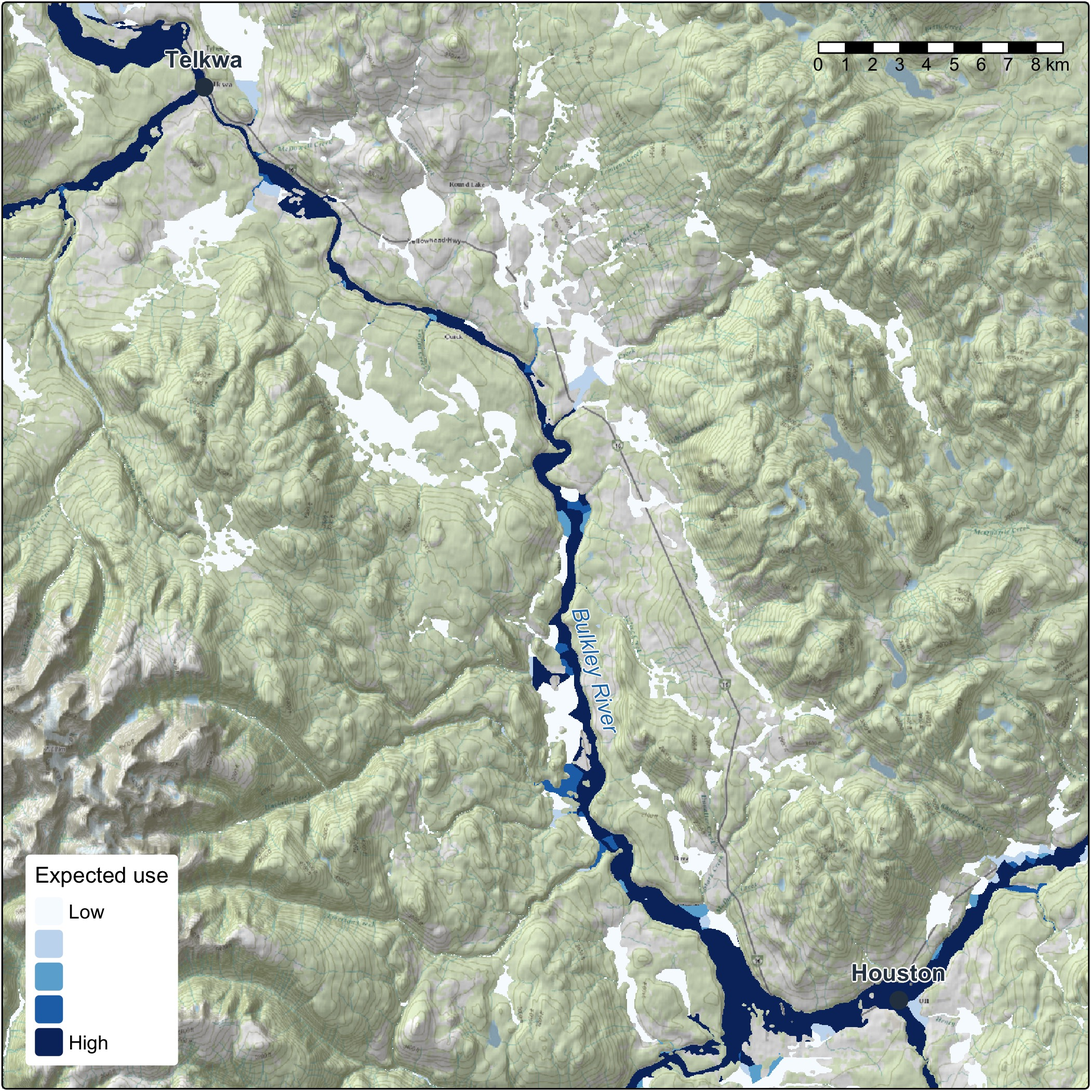
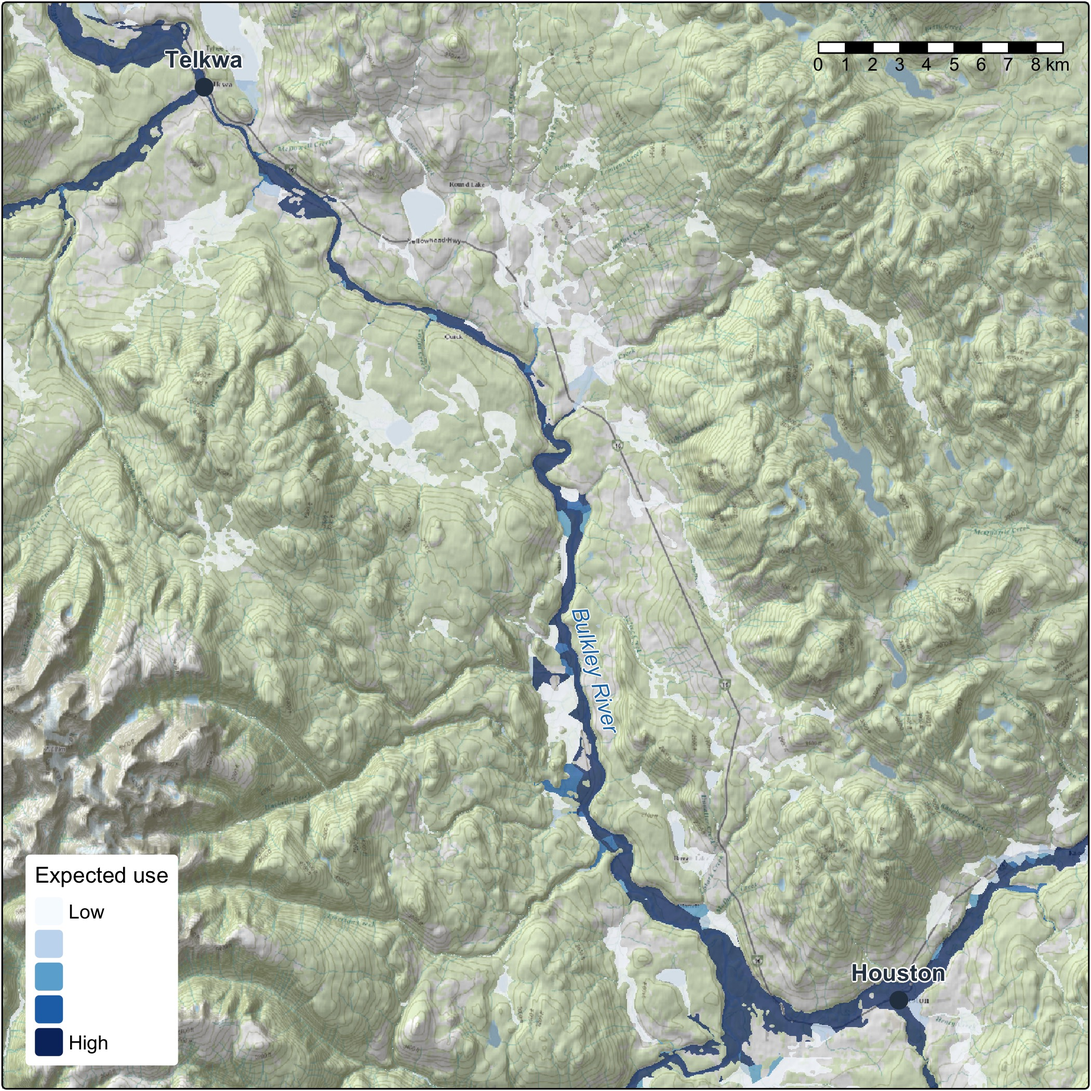
Let the ground show through the expected-use map
see() added no alpha to an unnamed palette, so that map drew opaque. Only its
image changes on a redraw.

diff --git a/planning/active/review-round1.md b/planning/active/review-round1.md
@@ -1,0 +1,26 @@
+## Checklist read
+
+Sections were read up to about 1,800 characters each (the Mechanisms prose in full).
+
+- `code-check.md`: every H3 under `## Mechanisms` (14), skipping table rows, plus Documentation Staleness, A link to a repo-hosted artifact must be *tracked*, Percent-encode a URL at construction, Test the cold/create path of idempotent code, Credentials. 18 of 37 H3s not read.
+- `code-check-r.md`: `paste()` with a zero-length argument; A database driver's value; `$` on a list partial-matches; Postgres row order; `sprintf("%g", x)`; Regenerated binaries churn git; `c(name = x)`; `[[` on a named ATOMIC vector; `ifelse()` with an all-NA test; Rscript reads a script as it runs; `match()` treats NA; A library call that dispatches on a global option. 103 of 115 not read.
+- `code-check-spatial.md`: terra integer rasters; A name is not a key; bcdata `filter()`; The BC WFS caps; FWA main flow; sf `st_intersection()`; sf reproject the polygon; `st_union()` fails; A GDAL failure partway through `st_read()`; sf name validation; Writing KML; GeoJSON in a projected CRS; `terra::plot()` and `plotRGB()`; A Freshwater Atlas main stem; bcdata all-missing column; A nodata value written to PNG; terra keeps a result in memory; `atan2(0, 0)`; `terra::cells()`. 75 of 94 not read.
+- `code-check-shell.md`: Paths. 69 of 70 not read: the diff has no shell.
+
+## Tree reviewed
+
+`branch.diff` is older than HEAD. Commit 406687e landed at 15:33 (-07:00) on 2026-11-01, after the diff was taken: it moves the Collaboration section and rewords two headings in `index.qmd`, and refreezes. I reviewed that commit's diff as well. Line numbers below are at 406687e. Its changes are prose only, and the freeze `hash` still equals md5 of `index.qmd` (0cf86662...). The frozen markdown differs from the source only by three blank lines.
+
+## Findings
+
+- **[severity: bug]** posts/2026-11-01-habitat-rules-tested/scripts/habitat-rules_fig-build.R:28-31 — `see()` silently adds no alpha to an unnamed palette, so the published chinook-grade map is opaque, against the script's own comment at line 27 ("the ground shows through"). `col_grade` (line 40) has no names, so `names(cols) %in% "neither"` is `logical(0)`, `ifelse()` returns `logical(0)`, and `paste0(cols, logical(0))` returns `cols` unchanged. Measured: `see(c("#f7fbff","#c6dbef"))` returns `"#f7fbff" "#c6dbef"`, while the named palette gets `B3` and `73`. The call at line 258 (through `map_cells()`, line 224) therefore draws all five grade classes opaque. In the committed `fig/habitat-rules_chinook-grade.jpg`, the Low class (`#f7fbff`) shows as near-white patches that hide the basemap and look like holes in the map, and the three rule maps let the ground through. The map's reading stays correct: the legend and the caption hold. The harm is the hidden ground and a comment that is false for this figure. Either fix means a decision on the image: give `see()` a default alpha for an unnamed palette (for example `if (is.null(names(cols)))`) and redraw this one image (no refreeze, since `index.qmd` does not change), or keep the opaque look on purpose and say so in the comment. The byte-identical redraw could not catch this, because it reproduces the defect.
+  - **Rule:** code-check.md "Zero-length, empty, and unset are three different things" ; code-check-r.md "`paste()` with a zero-length argument returns length ONE, not zero"
+
+## Checked, nothing to report
+
+- Public text: read `index.qmd`, the `.bib`, both scripts and `planning/`. A grep of those plus the freeze found no local paths or hosts, and the read found no private repo, client or project name. `planning/` says "an internal repo" without naming it. No path or software metadata turned up in a `strings` scan of the seven figures and one sticker. Commit messages are clean. gq, flooded, knowledge, floodplains and stac_floodplains_bc all read PUBLIC.
+- Links: all 18 URLs in `index.qmd` answer 200. The five Zenodo DOIs in the `.bib` were not covered by the earlier URL probe, because those entries' `url` is GitHub; each resolves to the right package title. All seven figures and nine stickers the post names are in the diff.
+- Script header claims: `kotl_all_ff04/floodplain.gpkg`, read live, carries `all_ff02`, `all_ff04`, `all_ff04_by_blue_line_key` and `all_ff06`, as `habitat-rules_fig-build.R` needs. The Elk parameters match the published `all_ff0N` rows in floodplains' `flood_scenarios.csv` (9, 2000, 2500, 5000, 2500), and `anchor_order`, which the Elk query does not use, is documentation-only in that repo per `region_config-check.R`.
+- Not reachable or not harmful in these scripts: `IN ()` on empty `keys` (ELKR has waterbodies, and the script ran); the `gnis_name` lookup on names shared across BC (labels are clipped to the window first); `edge_type` adding 1100 and 1150 (labels only).
+- Figure captions checked by eye on the grade, Elk existing and scenarios images: towns, rivers, colours and legend agree with the text.
+- Not exercised: the cold path of the `rivers.gpkg` cache, which needs a live fwapg. I have no evidence either way on whether it ran.

diff --git a/planning/active/findings.md b/planning/active/findings.md
@@ -31,7 +31,7 @@ The draft's own rules carry over: scale and method rather than counts that move 
 
 - **Publish without R:** a clean clone rendered with Quarto 1.10.20, the version CI installs, and no `Rscript` on the `PATH`: exit 0. Quarto 1.4.553 wrote `_freeze/posts/2026-11-01-habitat-rules-tested/` for a post with no chunks, so `engine: knitr` stays.
 - **Frozen text goes stale silently:** `freeze: true` serves the frozen text whatever the source says, so any edit to `index.qmd` needs a re-render and a recommit. The freeze `hash` equals `md5` of `index.qmd`, which is the check.
-- **Maps reproduce:** `scripts/habitat-rules_fig-build.R` run from the post's directory redrew all six maps byte-identical to the committed images (git status clean), in 1 min 41 s. The Elk floodplain step took about 7 min, and neither script writes to the database.
+- **Maps reproduce:** `scripts/habitat-rules_fig-build.R` run from the post's directory redrew all six maps byte-identical to the committed images (git status clean), in 1 min 41 s. Review round 1 then found `see()` gave no alpha to the unnamed grade palette (`paste0(cols, logical(0))`), so the grade map was opaque against the script's own comment. With that fixed, a redraw changed only `habitat-rules_chinook-grade.jpg`, the other five stayed byte-identical. The Elk floodplain step took about 7 min, and neither script writes to the database.
 - **Reproducing is not open to everyone yet:** the scripts need a PostgreSQL fwapg (with the `fresh_default` schema for the Elk) and knowledge's comparison GeoPackages, which knowledge builds and does not commit. `habitat-rules_flow-sources.png` has no script here.
 - **Links:** every URL answers 200 except the two Wiley DOIs, which answer 403 to scripted requests. Crossref resolves both to the cited titles.
 - **Author initials:** `Hill, N.H.` (2024) and `Hill, N.E.` (2025) differ in the `.bib` because the two Poisson pages differ.
